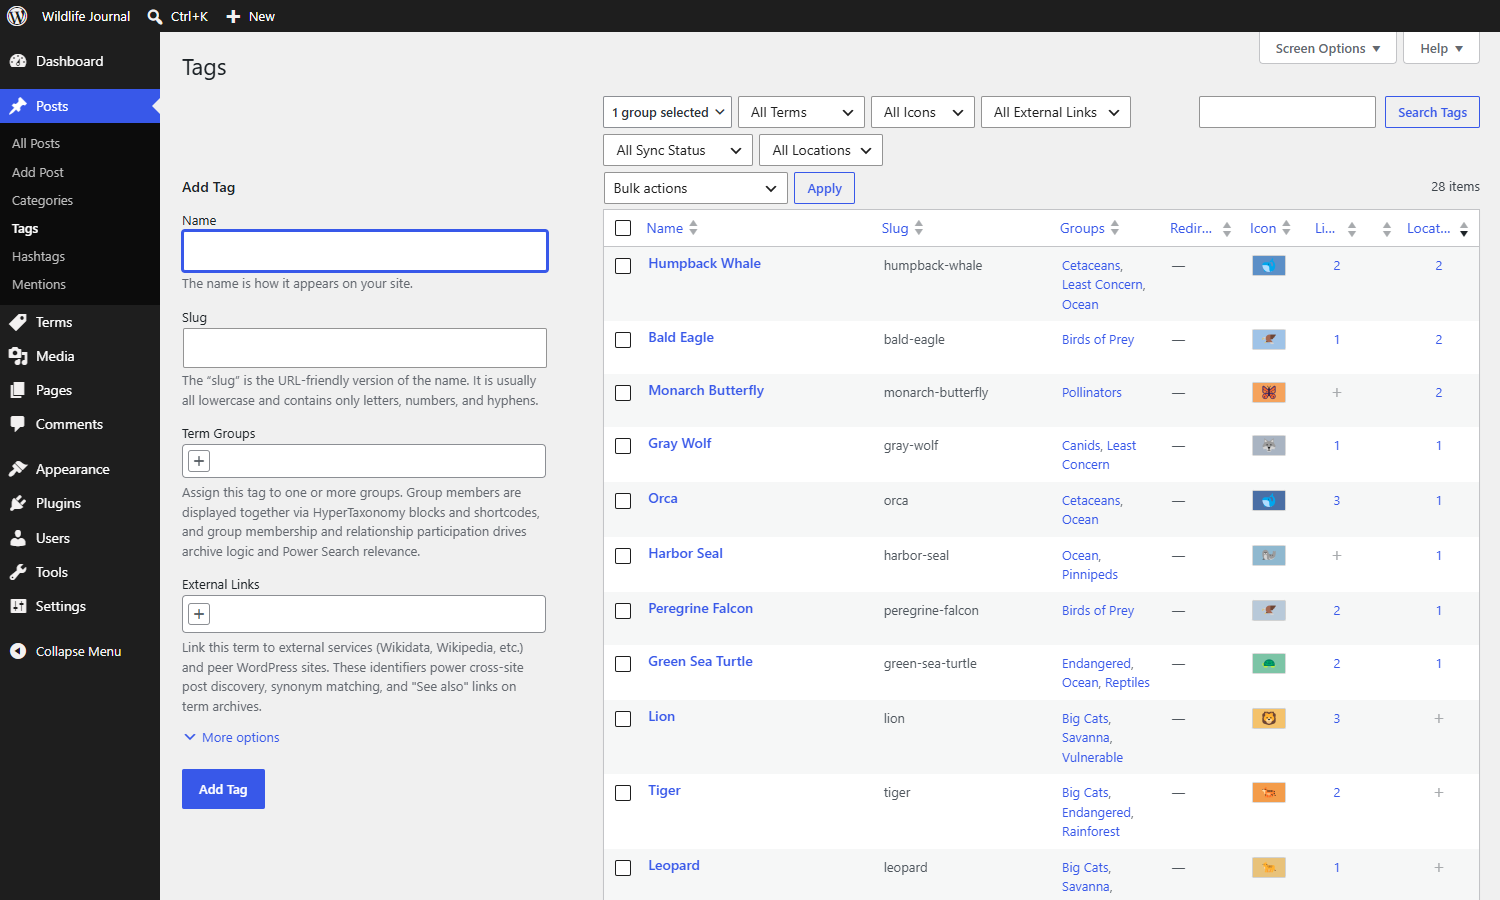
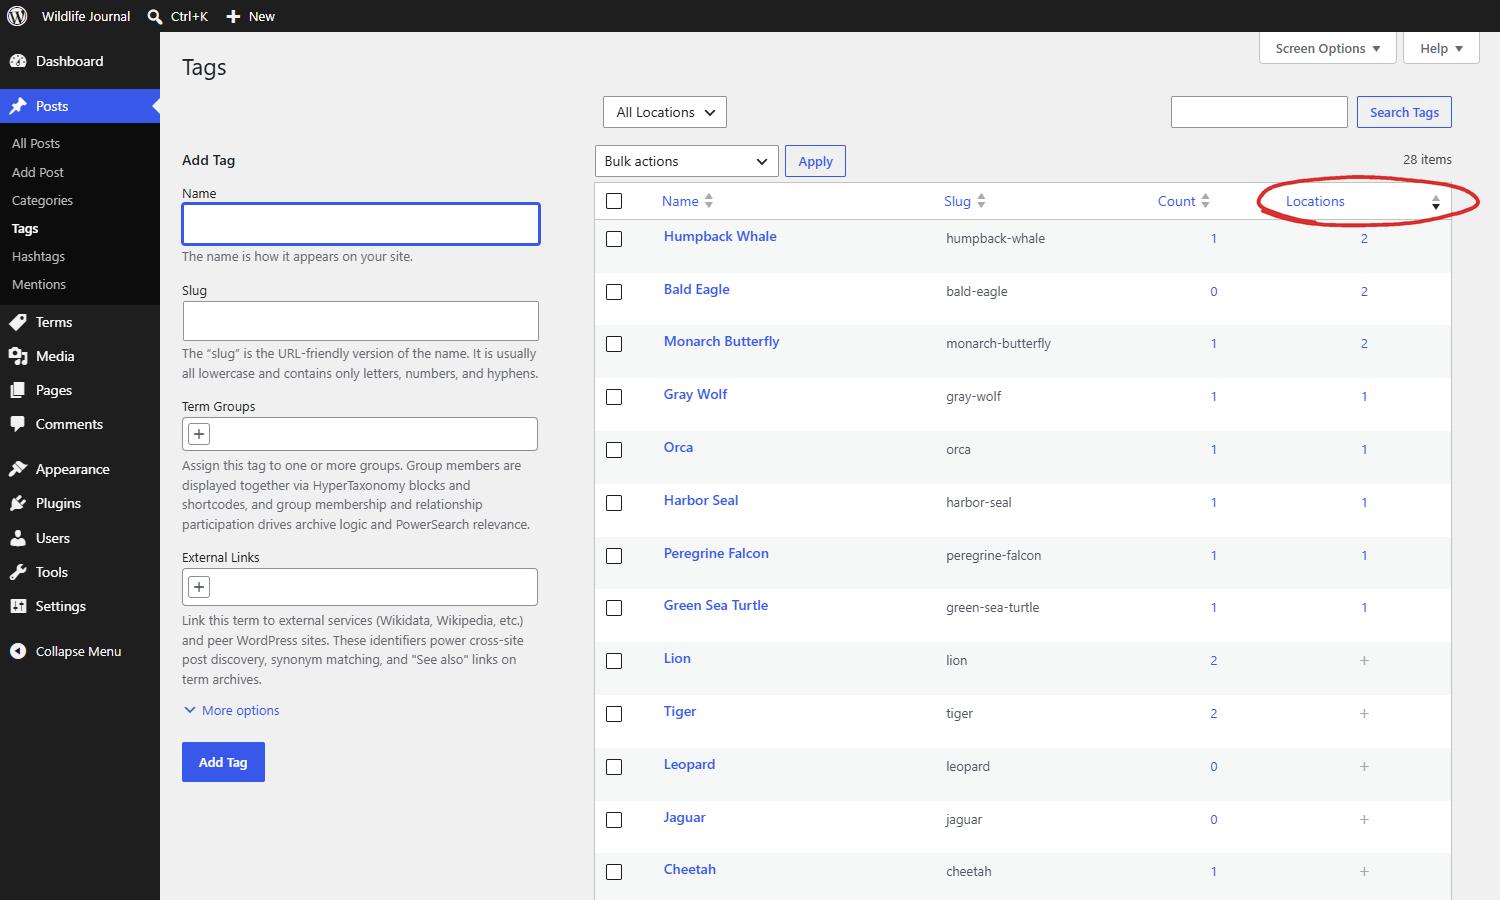
Retake wp.org screenshots; add a blocks shot; illustrate the User Guide

diff --git a/docs/user-guide/locations-settings.md b/docs/user-guide/locations-settings.md
@@ -21,7 +21,11 @@ How to add locations to terms, import them in bulk, and configure the plugin. To
 
 Start by enabling a taxonomy at **Settings → As the Crow Flies → General**, under **Enabled Taxonomies**. Its term edit screens then show a **Locations** panel, its term lists can show a **Locations** column, and it appears in the block settings. The column is hidden by default, so turn it on from **Screen Options**.
 
+![The Tags list with the Locations column circled, showing how many locations each tag has](../assets/images/screenshots/tags-list-locations.png)
+
 ### For one term
+
+![A tag's Locations page: the Add Location form, the tag's two locations, and the CSV import](../assets/images/screenshots/term-locations.png)
 
 Edit the term and click **Add locations →** to open its Locations page. Each location has these fields:
 
@@ -98,6 +102,8 @@ Go to **Settings → As the Crow Flies**.
 | **Enabled Taxonomies** | Which taxonomies can have locations. | None |
 | **Default units** | Miles or kilometers, used wherever a shortcode, block or query doesn't choose. | Miles |
 
+![The General settings tab: enabled taxonomies, default units and location matching](../assets/images/screenshots/settings-general.png)
+
 **Location Matching** decides when two locations count as the same place. Merging terms in HyperTaxonomy and matching terms across sites through TermConnect both use it, so these settings only matter with [HyperTaxonomy](working-with-hypertaxonomy.html).
 
 | Setting | Description | Default |
@@ -110,6 +116,8 @@ Go to **Settings → As the Crow Flies**.
 ### Postal Codes
 
 Distances from a postal code are measured from the center of that postal code's area.
+
+![The Postal Codes tab: US ZIP code data and the form for adding another country from GeoNames](../assets/images/screenshots/settings-postal-codes.png)
 
 - **US Zip Code Data** comes bundled, with about 33,000 Zip codes. You can disable it, download the current data from the Census Bureau, upload a file, or restore the bundled copy.
 - **Other Countries** takes a free per-country postal code file from GeoNames. Enter the country code and upload the TSV file. Each country can then be enabled, disabled or deleted.

diff --git a/docs/user-guide/shortcodes-blocks.md b/docs/user-guide/shortcodes-blocks.md
@@ -223,9 +223,15 @@ Stores near the visitor (no term or postal code):
 
 The plugin provides three Gutenberg blocks, available in the block inserter under **As the Crow Flies**.
 
+In the editor, the Location Finder and Term Locations blocks show a live preview of their output as you change their settings. Nearest Location shows a placeholder instead, because the location it shows depends on each visitor.
+
+![The Term Locations block in the editor: As the Crow Flies's blocks in the inserter, the block's live preview of a tag's locations, and its settings](../assets/images/screenshots/blocks-editor.png)
+
 ### Location Finder block
 
 Renders an interactive search form: the visitor enters a postal code (or clicks the crosshair button to use browser geolocation), picks a radius, and sees nearby locations. Results are fetched from the REST API and rendered in place — no page reload required.
+
+![The Location Finder on a page: a ZIP code and radius, and the two nearest locations with distances and directions links](../assets/images/screenshots/location-finder.png)
 
 **Block settings (inspector panel):**
 

diff --git a/docs/user-guide/working-with-hypertaxonomy.md b/docs/user-guide/working-with-hypertaxonomy.md
@@ -43,6 +43,8 @@ The **Term Groups** taxonomy (slug: `group`) is automatically excluded from the 
 
 The `near:` operator in HyperTaxonomy's PowerSearch, and the Search Widget's distance filter, both use ATCF's distance engine. They find every matching location within the radius. No additional configuration is required — enabling a taxonomy in ATCF settings is sufficient.
 
+![A search form with a distance field set to within 250 miles of a ZIP code, and the matching posts below](../assets/images/screenshots/distance-field.png)
+
 ---
 
 ## Matching locations across sites

diff --git a/.wordpress-org/README.md b/.wordpress-org/README.md
@@ -20,6 +20,4 @@ in `.distignore` beyond the folder itself.
 
 ## Current state
 
-Icon and banner art already in place (moved here from the old `wp-assets/`
-folder): `icon-128x128.png`, `icon-256x256.png`, `banner-772x250.png`,
-`banner-1544x500.png`. No `screenshot-N.png` files yet.
+Icons, banners, and `screenshot-1.png` … `screenshot-7.png` (matching the readme's seven captions) are in place.
